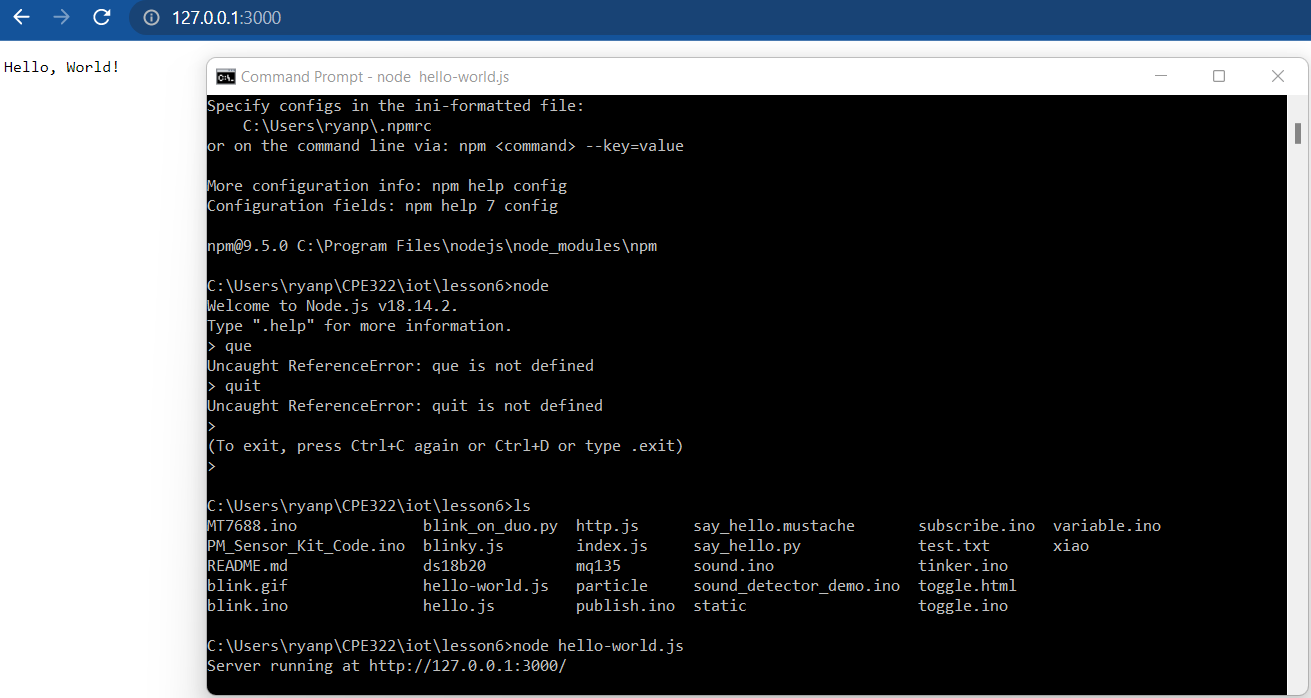
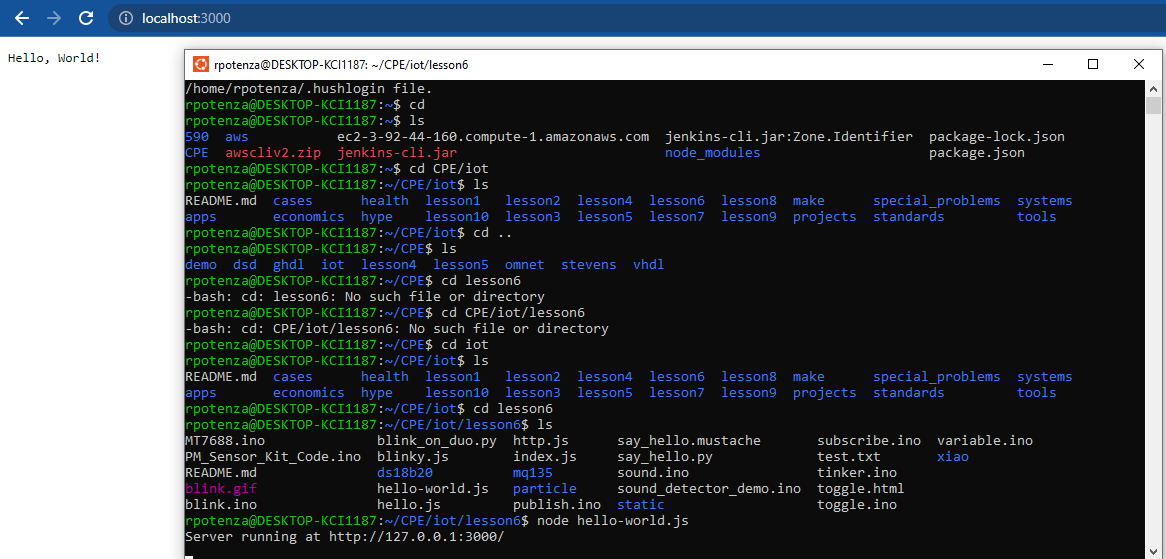
Added all images and updated readme

Changed region(s): [[0.0, 0.0, 1.0, 1.0], [0.9571, 0.1521, 1.0, 0.2129]]

diff --git a/README.md b/README.md
@@ -1,7 +1,21 @@
 # CPE 322-A
 ## Ryan Potenza
-*Spring 2023*
+*Lab 6*
 
-This repo contains labs for the Design 6 course through Stevens Institute of Technology.
+I pledge my honor that I have abided by the Stevens Honor System
+
+---
+The images contained in this directory contain the complete results for Lab 6.
+
+Lab 6 consisted of running 4 python program files from the command line and accessing their servers with http. WSL 2 terminal was used for this task.
 
 
+Lab 6
+---
+![python1](https://github.com/RyanPotenza/PotenzaCPE-322A/blob/main/Lab6/hello-world.png)
+
+![python2](https://github.com/RyanPotenza/PotenzaCPE-322A/blob/main/Lab6/hello.png)
+
+![python3](https://github.com/RyanPotenza/PotenzaCPE-322A/blob/main/Lab6/http.png)
+
+![python3](https://github.com/RyanPotenza/PotenzaCPE-322A/blob/main/Lab6/say-hello.png)
